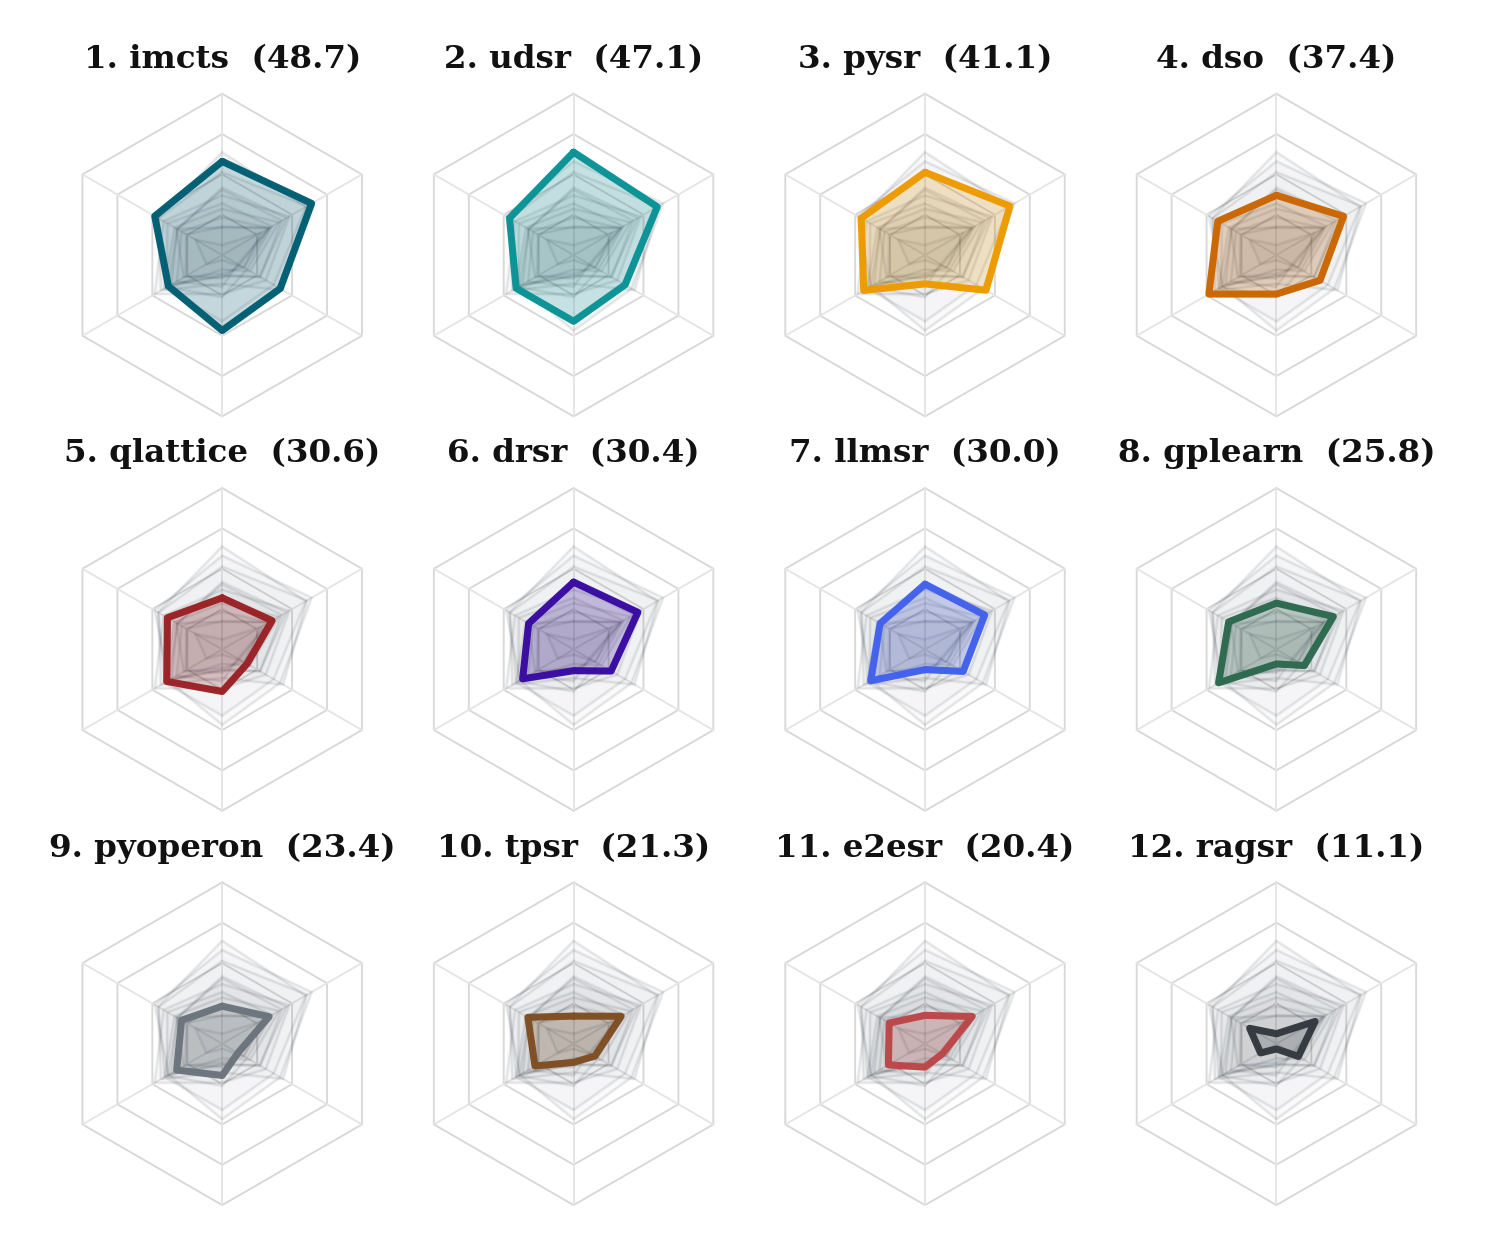
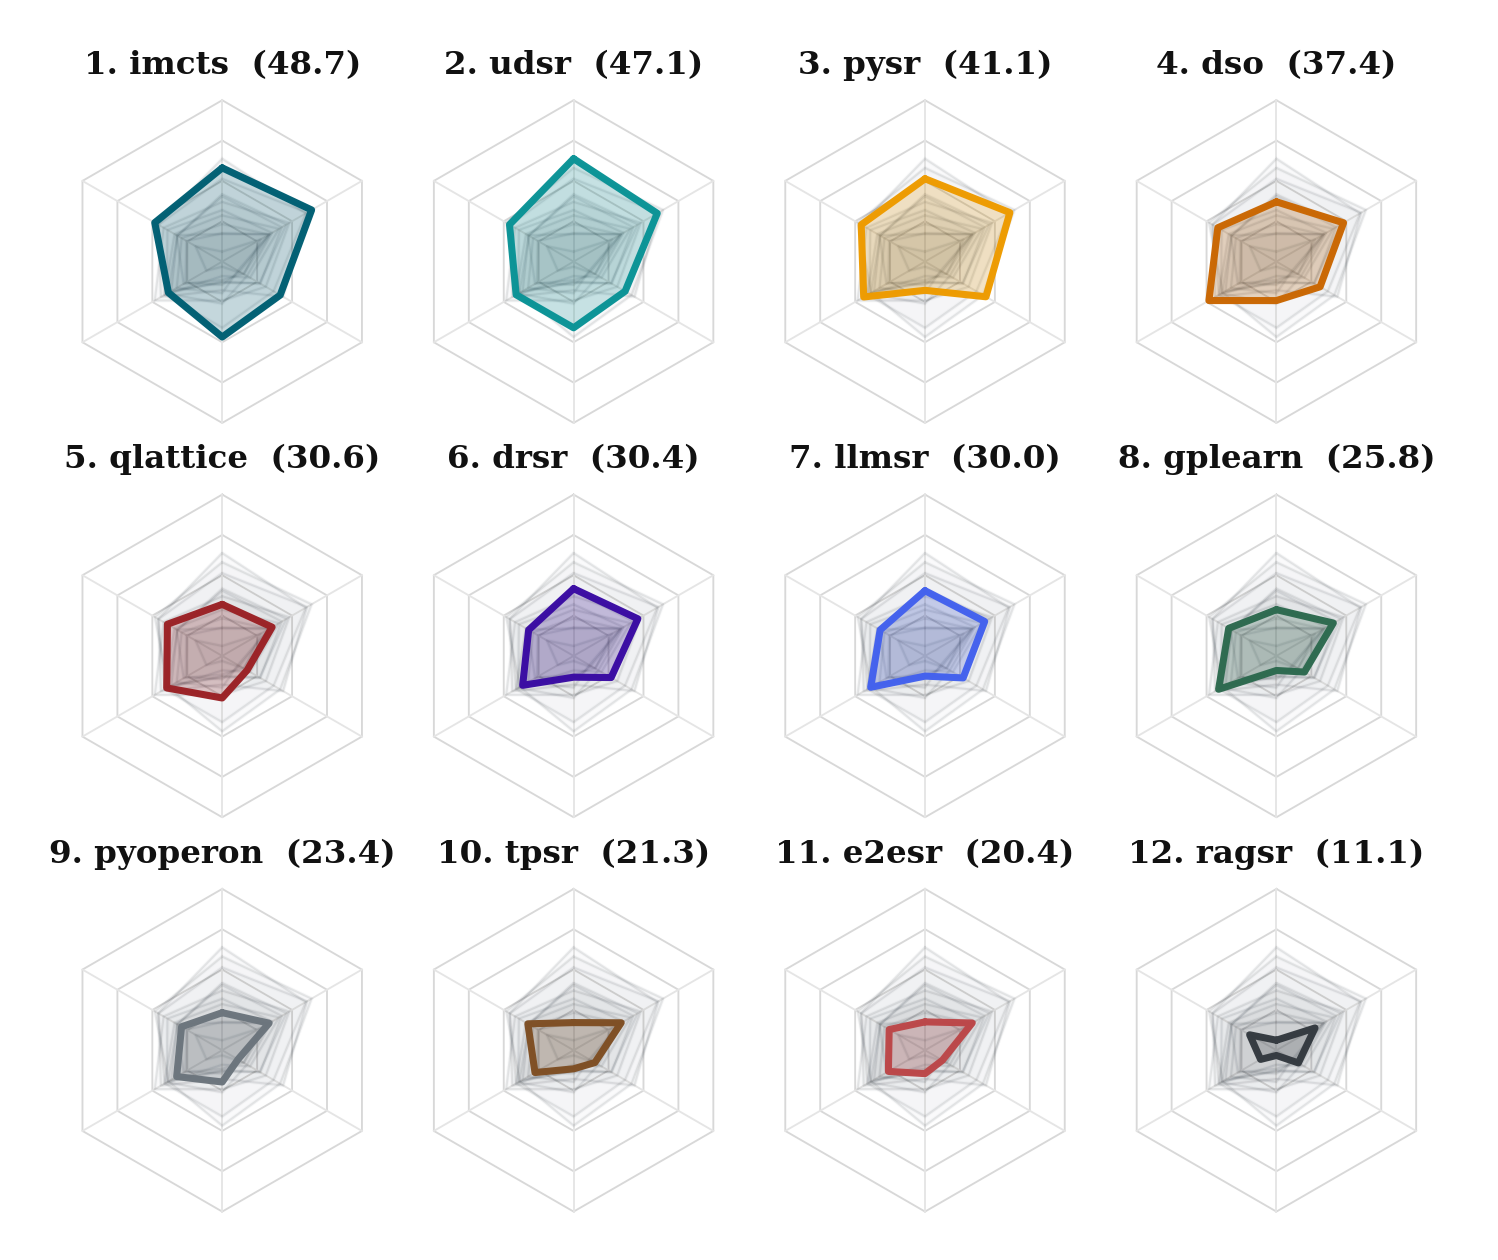
[update] 继续调整六轴小图上下边距

diff --git a/check/plot_hexagon_small_multiples_neurips.py b/check/plot_hexagon_small_multiples_neurips.py
@@ -31,8 +31,8 @@ SCORE_COL = "HexaScore_formal_with_ROB"
 GRID_SCORE_LEVELS = [0.25, 0.50, 0.75, 1.00]
 HIGHLIGHT_FILL_ALPHA = 0.20
 SAVE_SIDE_PAD_INCHES = 0.02
-SAVE_BOTTOM_PAD_INCHES = 0.005
-SAVE_TOP_PAD_INCHES = 0.14
+SAVE_BOTTOM_PAD_INCHES = 0.0
+SAVE_TOP_PAD_INCHES = 0.16
 SUBPLOTS_TOP = 0.935
 HIGHLIGHT_COLORS = [
     "#005f73",
